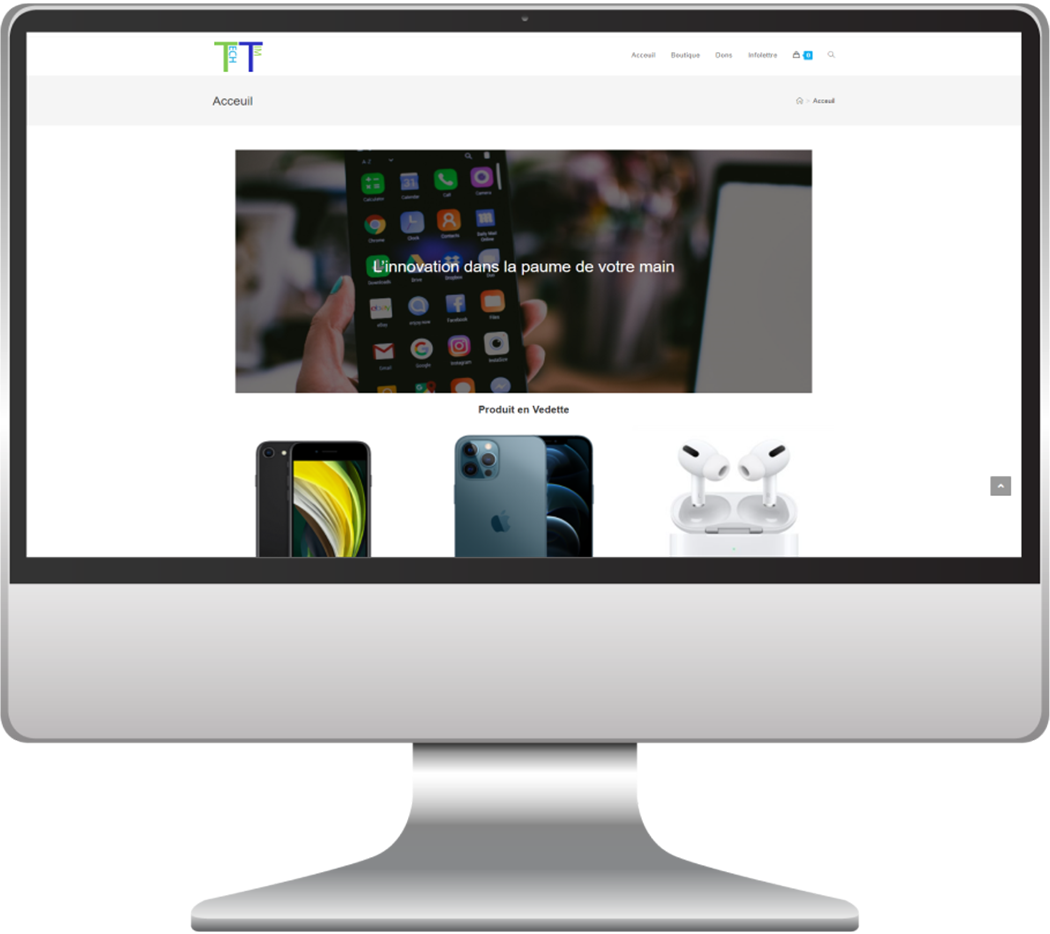
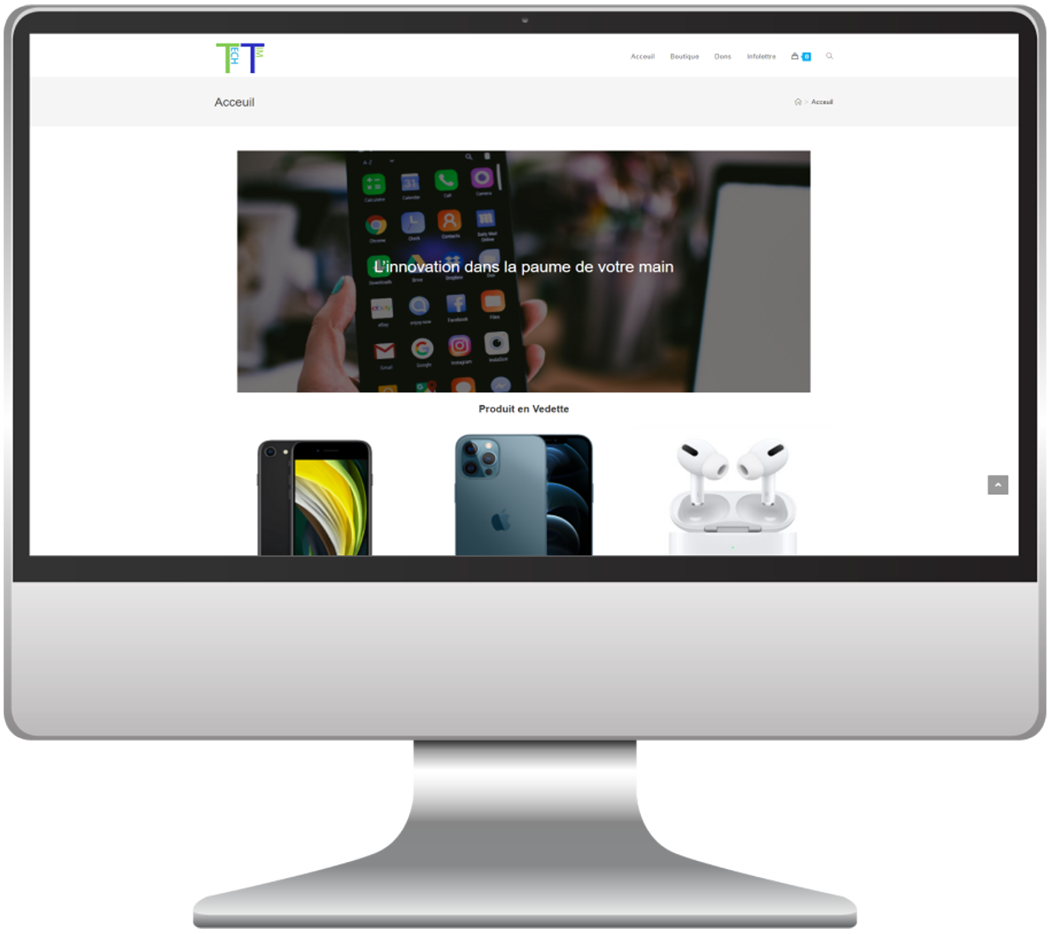
responsive 1366

diff --git a/src/projection-mapping.html b/src/projection-mapping.html
@@ -57,11 +57,11 @@
     <div class="texte-projet">
         <h1>Projection mapping</h1>
         <h2>Blender <span class="texte-alt-color">|</span> fSpy</h2>
-        <p>Un court film de 15 secondes utilisant une technique pour projeter une image 2D sur des éléments modélisés
-            par moi-même en 3D. Ce projet a été réalisé dans le cadre de mon cours ‘Production Numérique'. Pour ce
-            projet j’ai entièrement utilisé Blender pour la modélisation et l’animation et pour la projection j’ai
-            utilisé l'add-on fspy qui fonctionne en relation avec Blender pour appliquer la texture avec la caméra à
-            l’environnement grace à des points de fuites.</p>
+        <p>Un court film de 15 secondes utilisant une technique pour projeter une <span class="texte-alt-color">image 2D</span> sur des éléments modélisés
+            par moi-même en <span class="texte-alt-color">3D</span>. Ce projet a été réalisé dans le cadre de mon cours ‘Production Numérique'. Pour ce
+            projet j’ai entièrement utilisé <span class="texte-alt-color">Blender</span> pour la <span class="texte-alt-color">modélisation</span> et l’<span class="texte-alt-color">animation</span> et pour la <span class="texte-alt-color">projection</span> j’ai
+            utilisé l'add-on <span class="texte-alt-color">fspy</span> qui fonctionne en relation avec Blender pour appliquer la <span class="texte-alt-color">texture</span> avec la caméra à
+            l’environnement grace à des <span class="texte-alt-color">points de fuites</span>.</p>
         <p>Crédit : <span class="texte-alt-color">Cédric Ménard</span></p>
 
         <div class="logiciels-competences-projet">
@@ -108,7 +108,7 @@
 <section class="projet-section"
          data-aos="zoom-in-down" data-aos-duration="1000">
     <h1>La scène</h1>
-    <img alt="scene-3d-dans-blender" src="images/projection-scene.jpg">
+    <img alt="scene-3d-dans-blender" src="images/projection-scene.png">
 </section>
 
 

diff --git a/src/scss/components/_section-single.scss b/src/scss/components/_section-single.scss
@@ -115,8 +115,8 @@
 
 .citrouille-demo-video video {
   justify-content: center;
-  height: 50%;
-  width: 50%;
+  height: 75%;
+  width: 75%;
 }
 
 .single-voir-site{
@@ -232,7 +232,81 @@
 
 
 }
+@media screen and (max-width: $vw-laptop) {
+  .intro-projet {
+    display: grid;
+    grid-template-columns: 20px 1fr 20px;
+    height: 100%;
 
+    .image-projet {
+      width: 70%;
+      justify-self: center;
+
+      margin: 20px 0;
+
+      grid-column-start: 2;
+      grid-column-end: 3;
+    }
+
+    .texte-projet {
+      grid-column-start: 2;
+      grid-column-end: 3;
+      width: 90vw;
+      height: 100%;
+      justify-self: center;
+    }
+
+    .logiciels-competences-projet {
+      display: grid;
+      grid-template-columns: 1fr 50px 1fr;
+      grid-template-rows: 1fr 10px 1fr;
+    }
+
+    .logiciels-competences-projet img {
+      width: 75px;
+      height: auto;
+      margin: 0 10px 0 0;
+    }
+
+    .un-logiciel {
+      grid-column-start: 1;
+      grid-column-end: 2;
+
+      grid-row-start: 1;
+      grid-row-end: 2;
+    }
+
+    .flex-logiciels {
+      display: flex;
+      flex-direction: row;
+      align-items: center;
+
+    }
+
+    .une-competence {
+      grid-column-start: 1;
+      grid-column-end: 2;
+
+      grid-row-start: 3;
+      grid-row-end: 4;
+    }
+
+    .flex-competences {
+      display: flex;
+      flex-direction: row;
+      align-items: center;
+
+    }
+    .titre-logo-projet {
+      text-align: center;
+    }
+  }
+  .projet-section {
+    h1 {
+      text-align: center;
+    }
+  }
+}
 @media screen and (max-width: $vw-tablette) {
   .intro-projet {
     display: grid;

diff --git a/src/scss/components/_section-singles.scss b/src/scss/components/_section-singles.scss
@@ -171,7 +171,30 @@
   justify-content: right;
 }
 
+@media screen and (max-width: $vw-laptop) {
+  .projets {
+    grid-template-columns: 20px 1fr 20px;
+  }
+  .projets a img {
+    width: 75%;
+    height: auto;
+    margin: 20px;
+    transition: all .2s ease-in-out;
+  }
+  .bulle {
+    height: 345px;
+    width: 345px;
+    margin: 0;
+    border-radius: 50%;
+    h2{
+      font-size: $fz-h3;
+    }
 
+    p {
+      font-size: 14px;
+    }
+  }
+}
 @media screen and (max-width: $vw-tablette) {
   .projets {
     display: grid;

diff --git a/src/singles.html b/src/singles.html
@@ -121,8 +121,7 @@
                 <button type="button">Voir le projet</button>
             </a>
         </div>
-        <a href="projection-mapping.html"><img alt="film-citrouille" class="citrouille"
-                                               src="images/mockup-projet-5.png"></a>
+        <a href="projection-mapping.html"><img alt="film-citrouille" class="citrouille" src="images/mockup-projet-5.png"></a>
     </div>
 </section>
 

diff --git a/src/site-ecommerce.html b/src/site-ecommerce.html
@@ -53,7 +53,7 @@
 </header>
 
 <div class="intro-projet">
-    <div class="image-projet"><img alt="projet-site-ecommerce" src="images/mockup-projet-4.png"></div>
+    <div class="image-projet"><img alt="projet-site-ecommerce" src="images/mockup-projet-5.png"></div>
     <div class="texte-projet">
         <h1>Refonte d’un site</h1>
         <h2>WordPress <span class="texte-alt-color">|</span> HTML/CSS/JS</h2>
